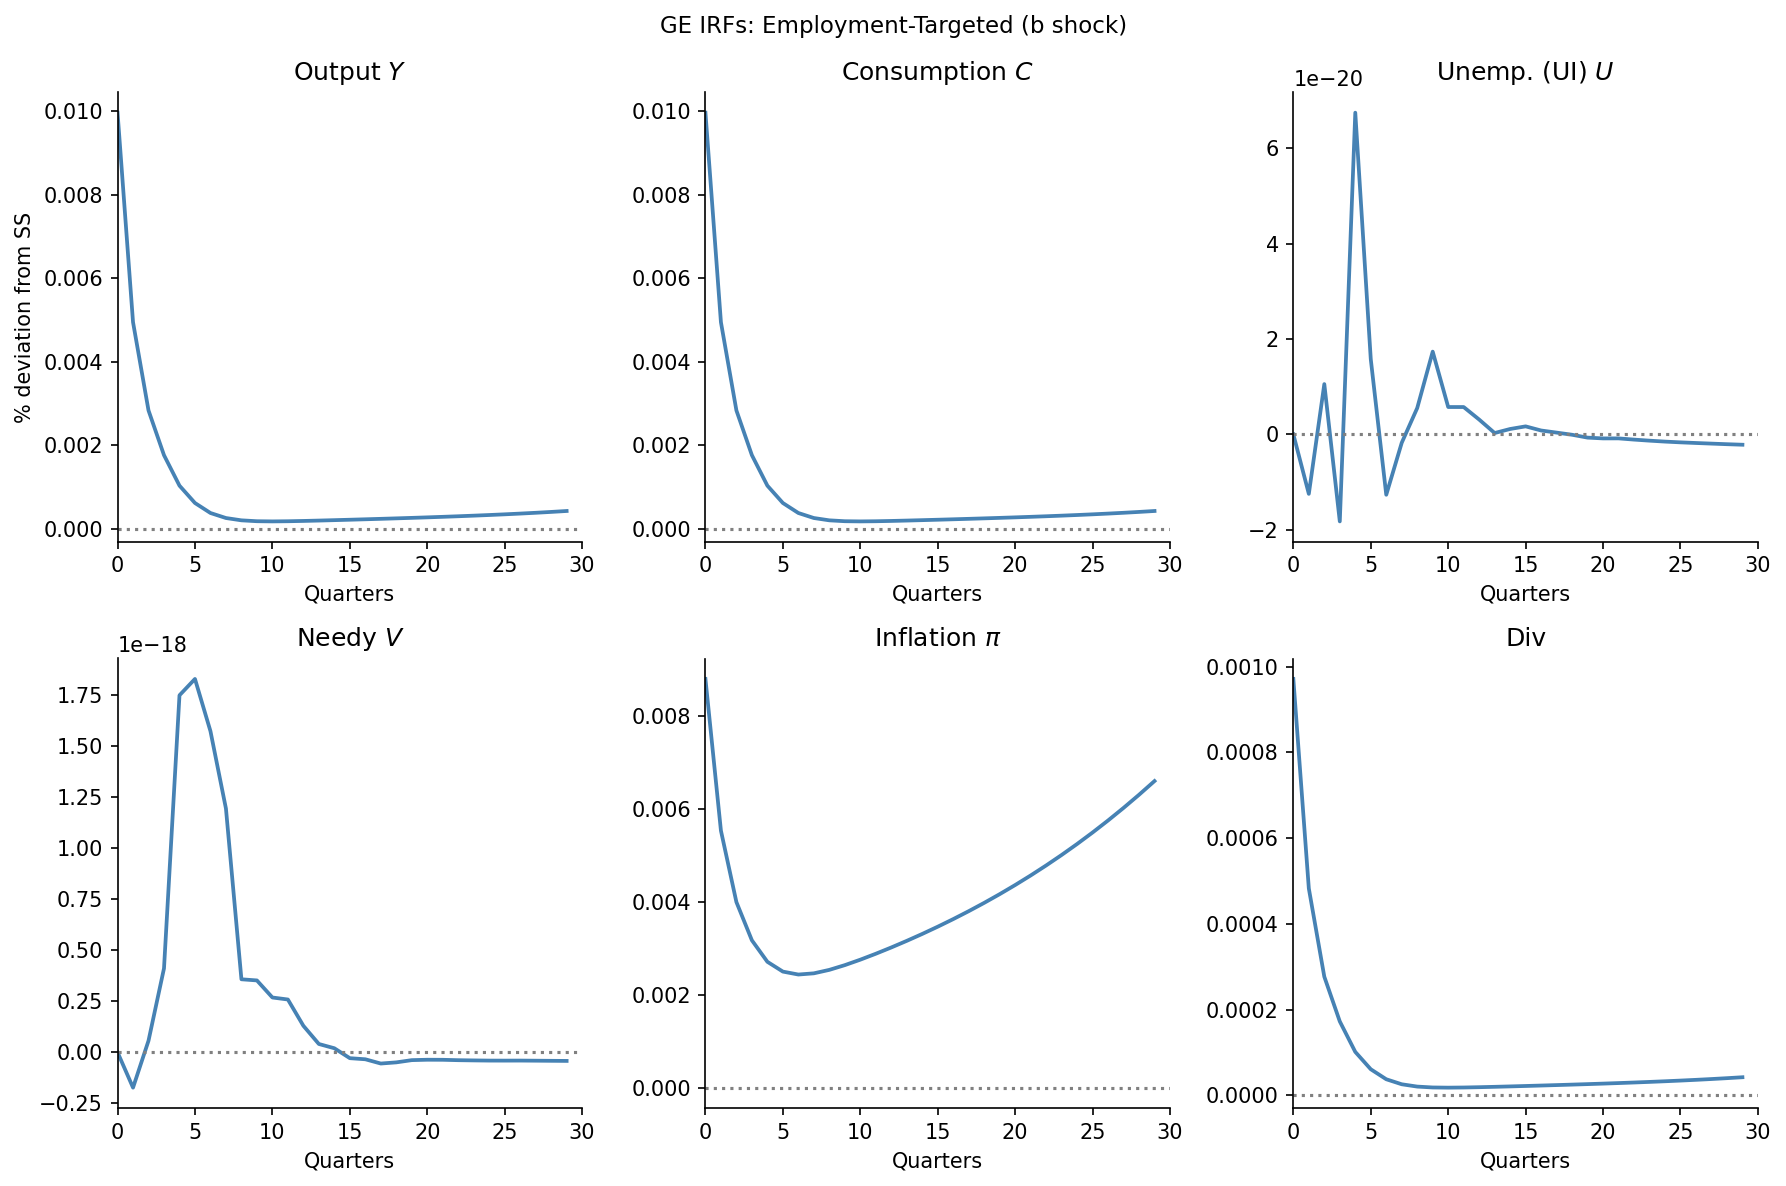
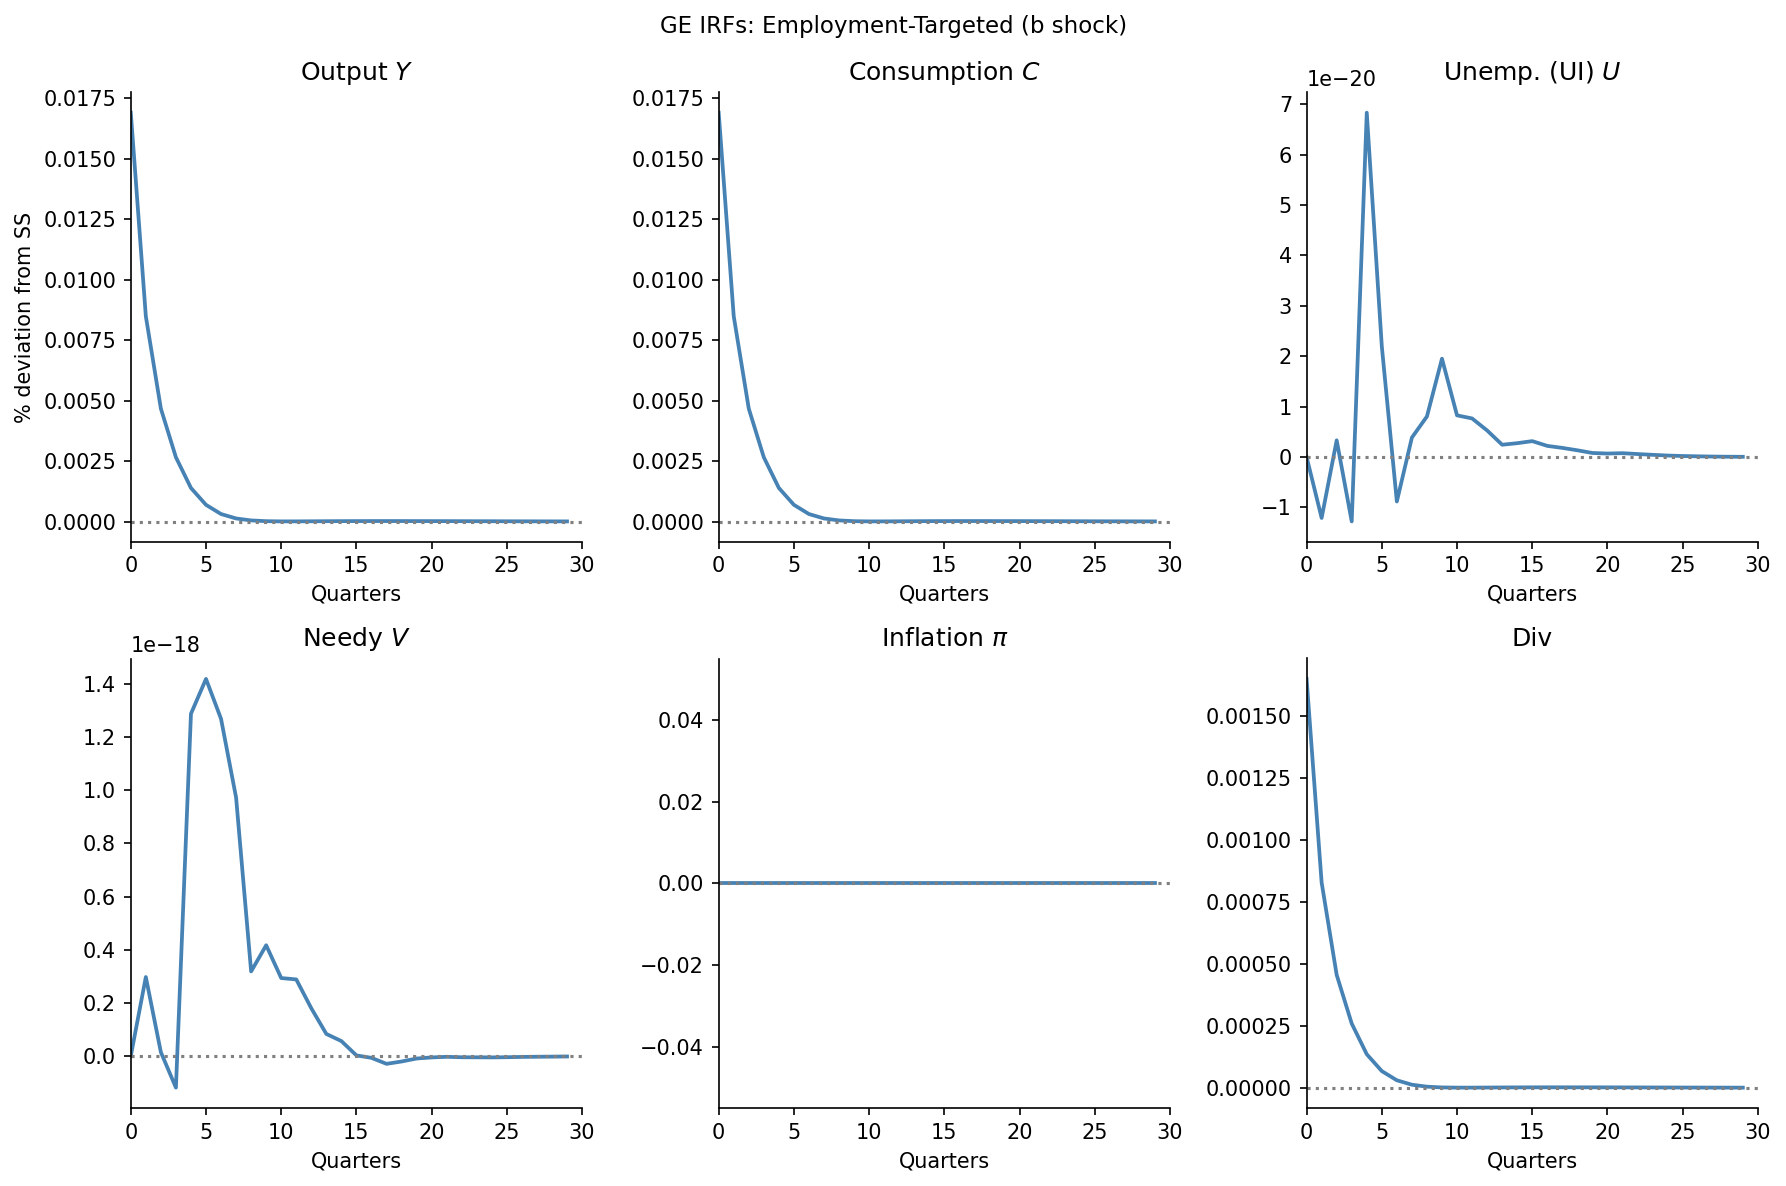
changing nkpc back!

diff --git a/code/other_blocks.py b/code/other_blocks.py
@@ -24,8 +24,6 @@ def firm(Y, Z, w, tau):
 
 
 # 2. SS Phillips Curve
-#    wedge = vscale * L^(1/frisch) - (1-tau) * w * C^(-1/eis)
-#    pi = kappa * [wedge] + beta_avg * pi(+1)
 @simple
 def nkpc_ss(Z, mu):
     w = Z / mu        # P = mu * W / Z  =>  w = Z / mu
@@ -33,13 +31,14 @@ def nkpc_ss(Z, mu):
 
 
 # 3. Dynamic Phillips Curves
+# log(1+pi)   = kappa   * (w/Z - 1/mu) + Y(+1)/Y * log(1+pi(+1)) / (1+r(+1))
+# log(1+pi_w) = kappa_w * (w/Z - 1/mu) + log(1+pi_w(+1)) / (1+r(+1))
+# 1+pi_w = (1+pi)*w/w(-1)
 @simple
-def phillips_curve(pi, w, L, C, kappa, frisch, eis, vscale, tau, beta_high, omega_I, dbeta):
-    """Single wage-price Phillips curve
-    Returns nkpc residual = 0 in equilibrium"""
-    beta_avg = beta_high - omega_I * dbeta
-    wedge = vscale * L**(1/frisch) - (1 - tau) * w * C**(-1/eis)
-    nkpc  = kappa * wedge + beta_avg * pi(+1) - pi
+def phillips_curve(pi, w, Z, Y, r, kappa, mu):
+    nkpc = (kappa * (w / Z - 1 / mu)
+            + Y(+1) / Y * (1 + pi(+1)).apply(np.log) / (1 + r(+1))
+            - (1 + pi).apply(np.log))
     return nkpc
 
 

diff --git a/code/parameters.py b/code/parameters.py
@@ -10,8 +10,6 @@
 calibration = dict(
     # --- Household Preferences ---
     eis       = 0.5,   # EIS = gamma = 0.5 (CRRA sigma = 2)
-    frisch    = 0.5,   # Labor supply elasticity = 0.5
-    vscale    = 1.0,   # scale of labor disutility
 
     # --- Discount Factor ---
     dbeta     = 0.06,  # difference between patient and impatient